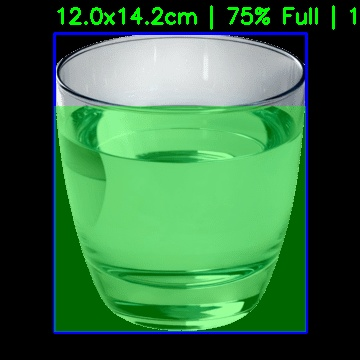
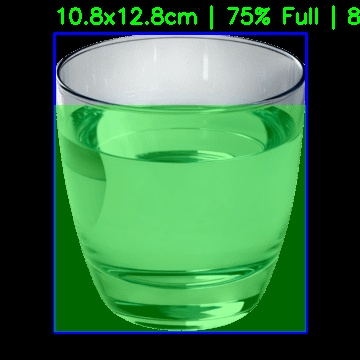
implemented depth anything v2 metric model for more accurate depth estimation

diff --git a/src/metrics/calculator.py b/src/metrics/calculator.py
@@ -1,24 +1,66 @@
+from PIL import Image, ExifTags
 import numpy as np
 
 class Calculator:
-    FOCAL_LENGTH = 800
-    STANDARD_SIZES = {
-        'bowl': 18,
-        'cup': 8,
-        'wine glass': 7,
-        'bottle': 7,
-        'vase': 12
-    }
+    # Fallback focal length if EXIF is missing (standard mobile FOV ~65 deg)
+    DEFAULT_FOV = 65
 
     @staticmethod
-    def estimate_distance(vessel_label, vessel_pixel_width):
-        standard_width = Calculator.STANDARD_SIZES.get(vessel_label, 10)
-        return (standard_width * Calculator.FOCAL_LENGTH) / vessel_pixel_width
+    def get_camera_params(image_path, fov_override=None):
+        """
+        Extracts focal length and image dimensions from EXIF data.
+        Returns: focal_length_px, width, height
+        """
+        try:
+            img = Image.open(image_path)
+            w, h = img.size
+            
+            if fov_override:
+                f_px = (w / 2) / np.tan(np.deg2rad(fov_override / 2))
+                return f_px, w, h
+                
+            exif = img._getexif()
+            if exif:
+                # 37386 = FocalLength, 41989 = FocalLengthIn35mmFilm
+                f_mm = exif.get(37386) or exif.get(41989)
+                if isinstance(f_mm, tuple): f_mm = f_mm[0] / f_mm[1]
+                
+                # If we have 35mm equivalent
+                if 41989 in exif:
+                    f_35mm = exif[41989]
+                    f_px = (f_35mm * w) / 36.0
+                elif f_mm:
+                    # Generic heuristic if we don't have sensor width: assume 1/2.3" sensor (~6.17mm)
+                    f_px = (f_mm * w) / 6.17
+
+            if f_px is None:
+                # Fallback to FOV-based focal length
+                f_px = (w / 2) / np.tan(np.deg2rad(Calculator.DEFAULT_FOV / 2))
+                
+            return f_px, w, h
+        except Exception as e:
+            print(f"Warning: EXIF parsing failed ({e}). Using default FOV.")
+            return 800, 640, 480 # Safe defaults
 
     @staticmethod
-    def calculate_dimensions(vessel_pixel_width, vessel_pixel_height, distance):
-        width = (vessel_pixel_width * distance) / Calculator.FOCAL_LENGTH
-        height = (vessel_pixel_height * distance) / Calculator.FOCAL_LENGTH
+    def get_metric_distance(depth_map, mask):
+        """
+        Extracts the median distance (in meters) to the object from the metric depth map.
+        """
+        object_depths = depth_map[mask > 0]
+        if len(object_depths) == 0:
+            return 1.0 # Fallback 1 meter
+        return float(np.median(object_depths))
+
+    @staticmethod
+    def calculate_dimensions(vessel_pixel_width, vessel_pixel_height, distance_m, focal_px):
+        """
+        Calculates physical dimensions in cm using metric depth and focal length.
+        W_cm = (W_px * Dist_cm) / Focal_px
+        """
+        dist_cm = distance_m * 100.0
+        width = (vessel_pixel_width * dist_cm) / focal_px
+        height = (vessel_pixel_height * dist_cm) / focal_px
         return width, height
 
     @staticmethod
@@ -36,27 +78,18 @@ class Calculator:
 
     @staticmethod
     def calculate_volume(vessel_label, width_cm, height_cm, fullness_pct):
-        """
-        Estimates volume in milliliters (ml) based on vessel geometry and fullness.
-        1 cm^3 = 1 ml
-        """
+        """Estimates volume in milliliters (ml). 1 cm^3 = 1 ml"""
         radius = width_cm / 2.0
         fullness_factor = fullness_pct / 100.0
         
         if vessel_label in ['cup', 'wine glass', 'bottle', 'vase']:
-            # Modeling as a cylinder: V = pi * r^2 * h
             total_volume = np.pi * (radius**2) * height_cm
             estimated_volume = total_volume * fullness_factor
         elif vessel_label == 'bowl':
-            # Modeling as a hemi-ellipsoid: V = (2/3) * pi * rx * ry * rz
-            # Assuming rx=ry=radius, rz=height
             total_volume = (2.0/3.0) * np.pi * (radius**2) * height_cm
-            # For a hemisphere-like shape, fullness isn't linear with height, 
-            # but for simplicity and lack of exact profile, we use linear fill of volume.
             estimated_volume = total_volume * fullness_factor
         else:
-            # Default: Simple box-based approximation
-            total_volume = width_cm * width_cm * height_cm * 0.6 # Assuming 60% of bounding box
+            total_volume = width_cm * width_cm * height_cm * 0.6
             estimated_volume = total_volume * fullness_factor
             
         return int(max(0.0, float(estimated_volume)))

diff --git a/src/pipeline.py b/src/pipeline.py
@@ -19,7 +19,7 @@ class DetectionPipeline:
         self.detector = Detector(device=self.device)
         self.depth_estimator = DepthEstimator(device=self.device)
 
-    def run(self, img_path, distance=None):
+    def run(self, img_path, distance=None, fov=None):
         img = cv2.imread(img_path)
         if img is None:
             print(f"Error: Could not read image at {img_path}")
@@ -37,8 +37,9 @@ class DetectionPipeline:
         vessel_label = main_vessel['label']
         print(f"Vessel detected: {vessel_label} ({main_vessel['conf']:.2f})")
 
-        # 2. Depth Estimation
-        print("Estimating depth...")
+        # 2. Camera Params & Depth Estimation
+        focal_px, _, _ = Calculator.get_camera_params(img_path, fov_override=fov)
+        print(f"Estimating metric depth (Focal length: {focal_px:.1f}px)...")
         depth_map = self.depth_estimator.estimate(img)
 
         # 3. Surface Detection
@@ -59,17 +60,26 @@ class DetectionPipeline:
         v_pw = vx2 - vx1
         v_ph = vy2 - vy1
         
+        # Get metric distance to vessel
         if distance is None:
-            distance = Calculator.estimate_distance(vessel_label, v_pw)
-            print(f"Estimated distance via {vessel_label} standard size: {distance:.1f} cm")
+            # Sample depth from a central region of the vessel to avoid background
+            center_x, center_y = (vx1 + vx2) // 2, (vy1 + vy2) // 2
+            qw, qh = (vx2 - vx1) // 4, (vy2 - vy1) // 4
+            vessel_mask = np.zeros(img.shape[:2], dtype=np.uint8)
+            vessel_mask[center_y - qh : center_y + qh, center_x - qw : center_x + qw] = 1
+            distance = Calculator.get_metric_distance(depth_map, vessel_mask)
+            print(f"Measured distance via Metric-Depth: {distance:.2f} m")
+        else:
+            # If user provided distance is in cm, convert to m
+            distance = distance / 100.0 
 
-        width_cm, height_cm = Calculator.calculate_dimensions(v_pw, v_ph, distance)
+        width_cm, height_cm = Calculator.calculate_dimensions(v_pw, v_ph, distance, focal_px)
         fullness = Calculator.calculate_fullness(content_mask, (vx1, vy1, vx2, vy2))
         volume_ml = Calculator.calculate_volume(vessel_label, width_cm, height_cm, fullness)
 
         print(f"\nObject: {vessel_label.upper()}")
         print(f"Size:   {width_cm:.2f} cm wide x {height_cm:.2f} cm high")
-        print(f"Dist:   {distance:.1f} cm (estimated)")
+        print(f"Dist:   {distance:.2f} m (measured)")
         print(f"Fill:   {fullness}% full (detected by {method})")
         print(f"Volume: {volume_ml} ml (estimated)")
 

diff --git a/src/depth/estimator.py b/src/depth/estimator.py
@@ -1,13 +1,31 @@
-from transformers import pipeline
-from PIL import Image
+from transformers import AutoImageProcessor, AutoModelForDepthEstimation
+import torch
 import numpy as np
 import cv2
 
 class DepthEstimator:
-    def __init__(self, model_id="depth-anything/Depth-Anything-V2-Small-hf", device='cpu'):
-        self.pipe = pipeline("depth-estimation", model=model_id, device=device)
+    def __init__(self, model_id="depth-anything/Depth-Anything-V2-Metric-Indoor-Small-hf", device='cpu'):
+        self.device = device
+        self.processor = AutoImageProcessor.from_pretrained(model_id)
+        self.model = AutoModelForDepthEstimation.from_pretrained(model_id).to(device)
 
     def estimate(self, img_bgr):
-        pil_img = Image.fromarray(cv2.cvtColor(img_bgr, cv2.COLOR_BGR2RGB))
-        output = self.pipe(pil_img)
-        return np.array(output["depth"])
+        # Convert BGR to RGB
+        img_rgb = cv2.cvtColor(img_bgr, cv2.COLOR_BGR2RGB)
+        
+        inputs = self.processor(images=img_rgb, return_tensors="pt").to(self.device)
+        
+        with torch.no_grad():
+            outputs = self.model(**inputs)
+            # The model predicts depth in meters
+            predicted_depth = outputs.predicted_depth
+            
+        # Interpolate to original size
+        prediction = torch.nn.functional.interpolate(
+            predicted_depth.unsqueeze(1),
+            size=img_bgr.shape[:2],
+            mode="bicubic",
+            align_corners=False,
+        )
+        
+        return prediction.squeeze().cpu().numpy()

diff --git a/main.py b/main.py
@@ -6,12 +6,12 @@ def main():
     parser.add_argument("--path", type=str, required=True, help="Path to the input image")
     parser.add_argument("--distance", type=float, default=None, help="Distance to the object in cm (optional)")
     parser.add_argument("--device", type=str, default=None, help="Device to run inference on (cpu, cuda, mps)")
+    parser.add_argument("--fov", type=float, default=None, help="Camera Field of View in degrees (optional override)")
     
     args = parser.parse_args()
     
     pipeline = DetectionPipeline(device=args.device)
-    pipeline.run(args.path, args.distance)
+    pipeline.run(args.path, distance=args.distance, fov=args.fov)
 
 if __name__ == "__main__":
     main()
-

diff --git a/README.md b/README.md
@@ -37,13 +37,17 @@ If standard segmentation fails (common with clear liquids), the pipeline analyze
 
 ## 🛠 Installation
 
-### Local Setup (Using uv)
-```bash
-# Install uv if you haven't: https://github.com/astral-sh/uv
-uv venv
-source .venv/bin/activate
-uv pip install .
-```
+### Metric Estimation (Reference-Free)
+The pipeline now uses **Metric Depth Estimation** to calculate object sizes without assuming standard dimensions.
+- **Accuracy Note**: For best results, use high-resolution images (1080p+) with original EXIF metadata.
+- **FOV Override**: If results look unrealistic, the camera FOV might be misaligned. You can manually specify it:
+  ```bash
+  docker exec food-volume-detection python main.py --path data/glass.png --fov 55
+  ```
+- **Distance Override**: If you know the exact distance:
+  ```bash
+  docker exec food-volume-detection python main.py --path data/glass.png --distance 30
+  ```
 
 ### Docker Setup (For Portability)
 ```bash
